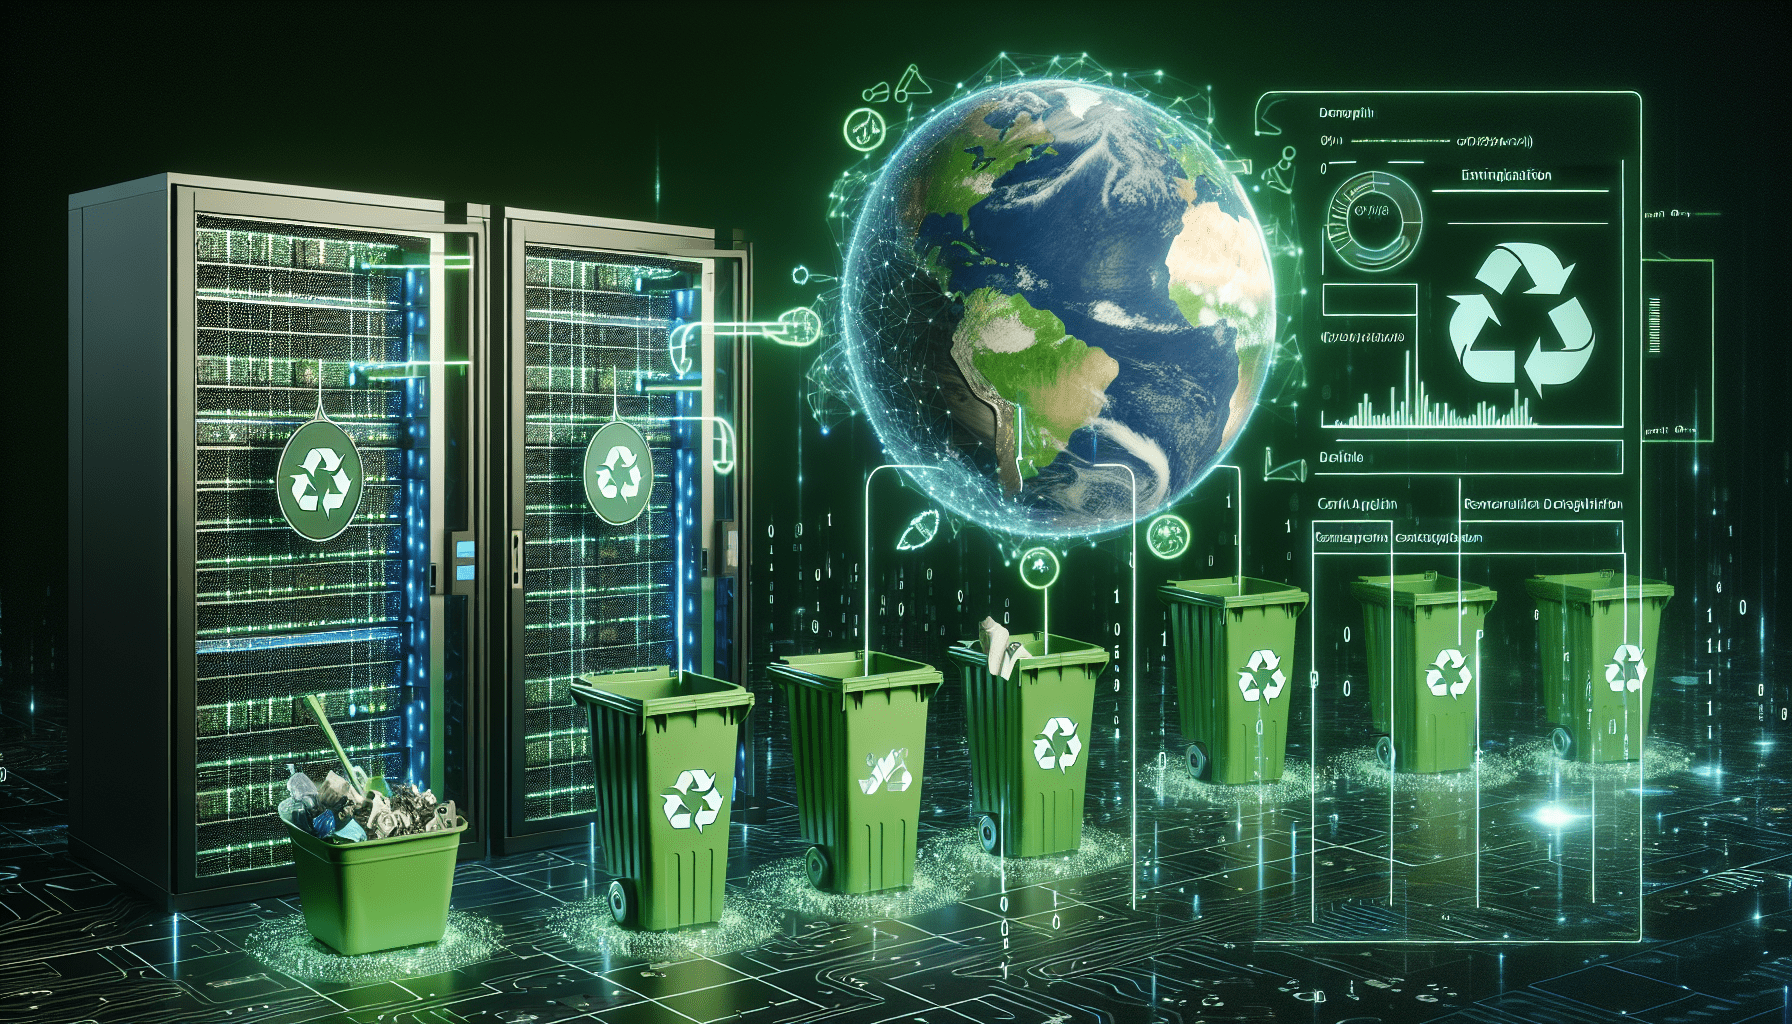
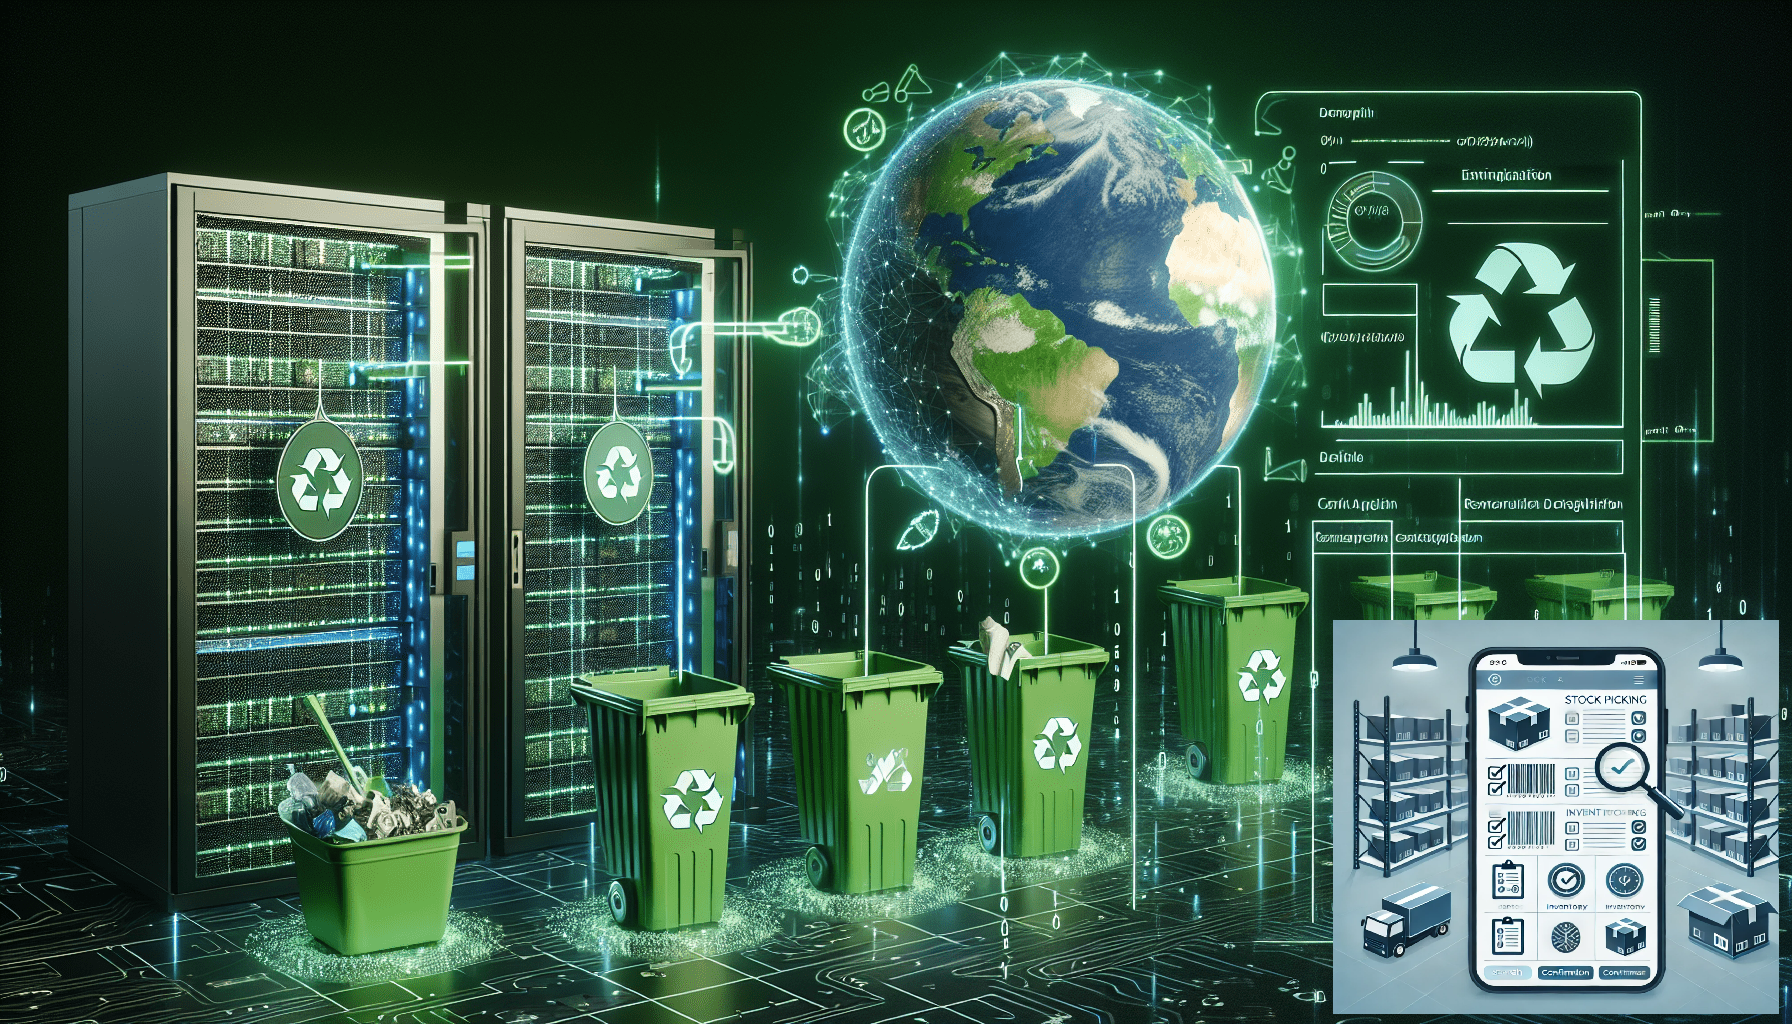
ajustes site

Changed region(s): [[0.7188, 0.5938, 1.0, 1.0]]

diff --git a/src/Dados/SobreNos.js b/src/Dados/SobreNos.js
@@ -35,7 +35,7 @@ const timelineData = [
         year: "2018",
         description:
             "Lançamento do software ERP-web para imobiliárias",
-        imgSrc: require('../assets/default-image.png'),
+        imgSrc: require('../assets/imobiliaria.png'),
     },
     {
         year: "2019",
@@ -64,7 +64,7 @@ const timelineData = [
     {
       year: "2024",
       description:
-        "Primeiras iterações de IA generativa",
+        "Aplicativo para atendimento Loja, Aplicativo para separação e coleta de estoque, primeiras iterações de IA generativa",
       imgSrc: require('../assets/ia.png'),
     },
   ];

diff --git a/public/index.html b/public/index.html
@@ -25,7 +25,7 @@
       Learn how to configure a non-root public URL by running `npm run build`.
     -->
     <link href="https://cdn.jsdelivr.net/npm/bootstrap@5.3.3/dist/css/bootstrap.min.css" rel="stylesheet" integrity="sha384-QWTKZyjpPEjISv5WaRU9OFeRpok6YctnYmDr5pNlyT2bRjXh0JMhjY6hW+ALEwIH" crossorigin="anonymous">
-    <title>Conob</title>
+    <title>Conob - Soluções e Tecnologia</title>
   </head>
   <body>
     <noscript>You need to enable JavaScript to run this app.</noscript>
